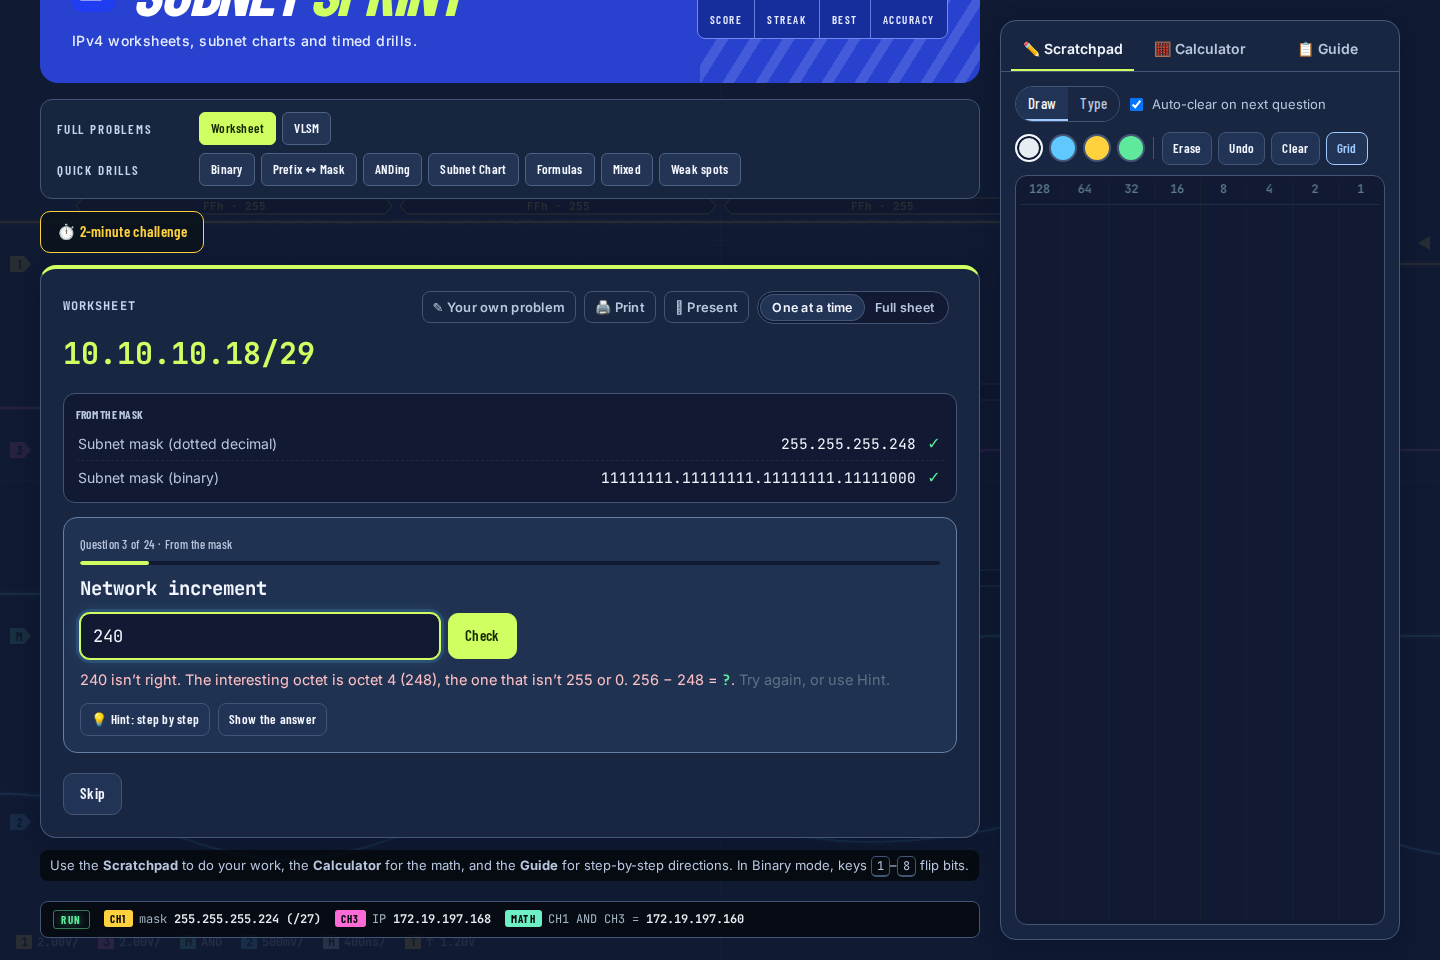
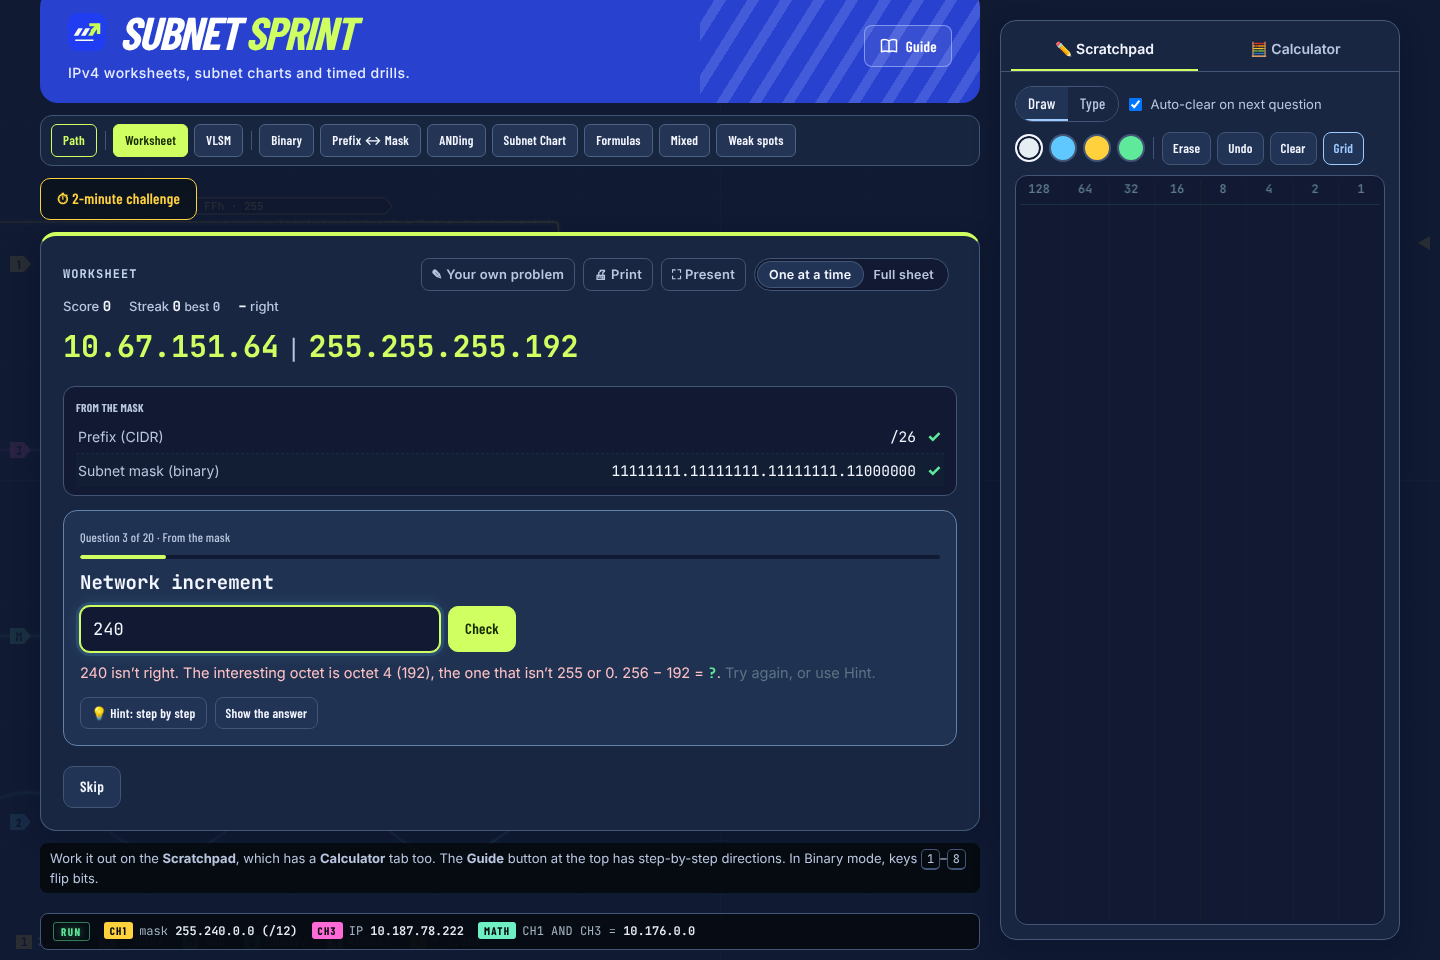
Refresh the README screenshots for the new layout and learning path

diff --git a/README.md b/README.md
@@ -34,6 +34,12 @@ A fresh visit opens on the **Path**: twelve skills in the order you learn them, 
 - **Spaced review.** Each bar waits longer before the skill comes back for review: 1, 3, 7, 16, then 35 days. The Start button mixes due reviews in with new skills so nothing fades.
 - On a phone, the path replaces the mode tabs and a session hides everything but the question. Every classic mode is still one tap away under **Free practice**.
 
+<p align="center">
+  <img src="docs/path.png" alt="The learning path: twelve skills, signal bars and a Start button" width="560">
+  <img src="docs/phone-path.png" alt="Phone: the learning path" width="200">
+</p>
+<p align="center"><img src="docs/lesson.png" alt="A short lesson with a worked example before practice" width="560"></p>
+
 ### Practice modes
 The tabs are in two groups. **Full problems** are whole multi-part problems worked start to finish: Worksheet and VLSM. **Quick drills** practice one skill at a time.
 
